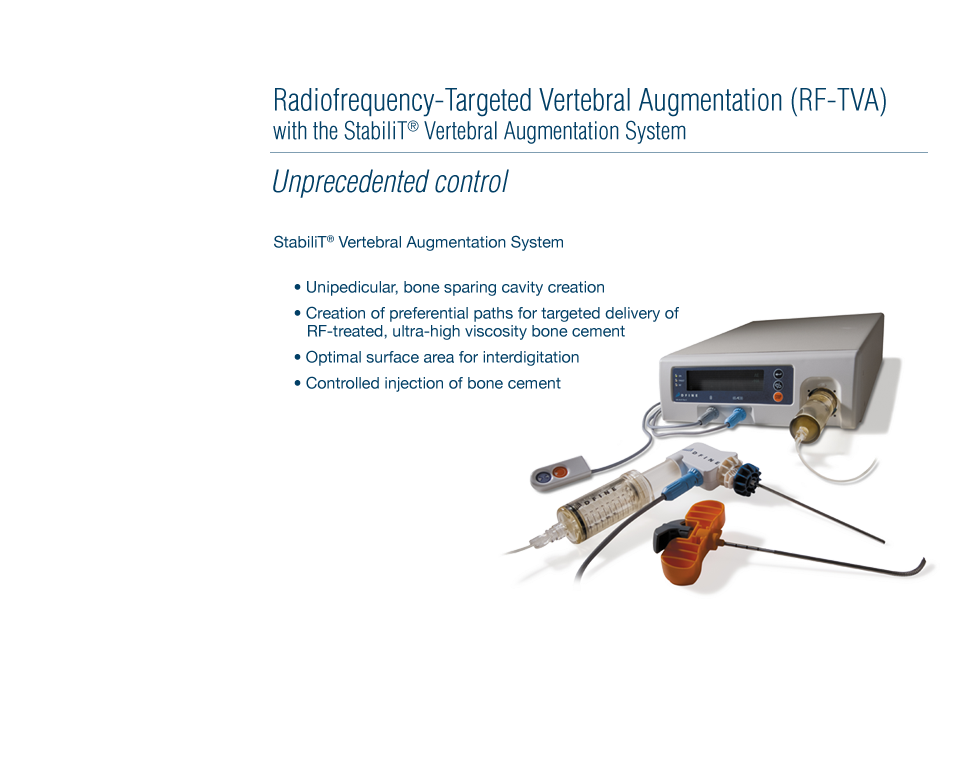
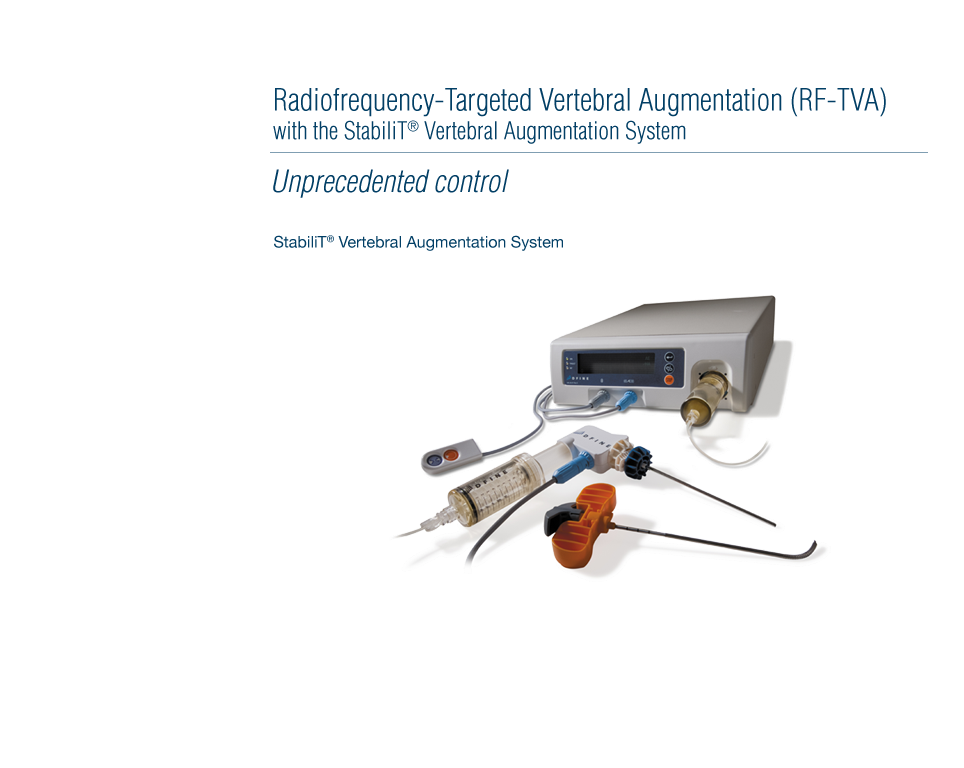
a_technology page

Changed region(s): [[0.3112, 0.3438, 0.9647, 0.7812]]

diff --git a/Resources/views/content/a_technology.js b/Resources/views/content/a_technology.js
@@ -46,6 +46,43 @@ Views.content.a_technology = function() {
 	
 	view.add(video2);
 	
+	var makePlus = function(element, n) {
+		var plus_button = Ti.UI.createImageView({
+			image: "images/reveal_plus_sign.png",
+			width: 25,
+			height: 25,
+			top: element.top,
+			left: element.left+n,
+			zIndex:40
+		});
+
+		plus_button.addEventListener('click', function() {
+			element.fireEvent('click');
+		});
+		
+		return plus_button;
+	}
+	
+	var hard_switch_bullets = Ti.UI.createLabel({
+		text: "• Unipedicular, bone sparing cavity creation \n\n • Creation of preferential paths for targeted delivery of RF-treated, ultra-high viscosity bone cement  \n\n • Optimal surface area for interdigitation \n\n • Controlled injection of bone cement",
+		font:{fontFamily:'Helvetica LT CondensedLight',fontSize:14,fontWeight:'regular'},
+		color:"black",
+		width:230,
+		top:10,
+		height:'auto',
+		zIndex:40
+	});
+	
+	var hard_switch_cable_info = UI.toggleableView({top:250, left:300, width:250, zIndex:40});
+	var hard_switch_cable = UI.toggleableLabel({image:"images/reveal_plus_sign.png", text: "", top:220, left:420});
+	var hard_plus_button = makePlus(hard_switch_cable, 150);
+	hard_switch_cable_info.add(hard_switch_bullets);
+	ToggleSwitch(hard_switch_cable, hard_switch_cable_info);
+	view.add(hard_switch_cable);
+	view.add(hard_plus_button);
+	view.add(hard_switch_cable_info);
+	
+	
 	view.add(Views.shared.tech_nav("", "a"));	
 	view.add(Views.shared.flipper({tabs:"b_tabs", flip_to:"b_technology"}));
 	view.add(Views.shared.logo());

diff --git a/Resources/views/content/a_cost.js b/Resources/views/content/a_cost.js
@@ -7,11 +7,10 @@ Views.content.a_cost = function() {
 		text: "Superior cost effectiveness at one level, additional savings in multi-level cases",
 		font:{fontFamily:'Helvetica LT CondensedLight',fontSize:34,fontWeight:'regular'},
 		color:"#023f66",
-		width:600,
+		width:750,
 		top:40,
-		left:190,
-		height:'auto',
-		textAlign:"center"
+		left:40,
+		height:'auto'
 	});
 	
 	// var label2 = Ti.UI.createLabel({
